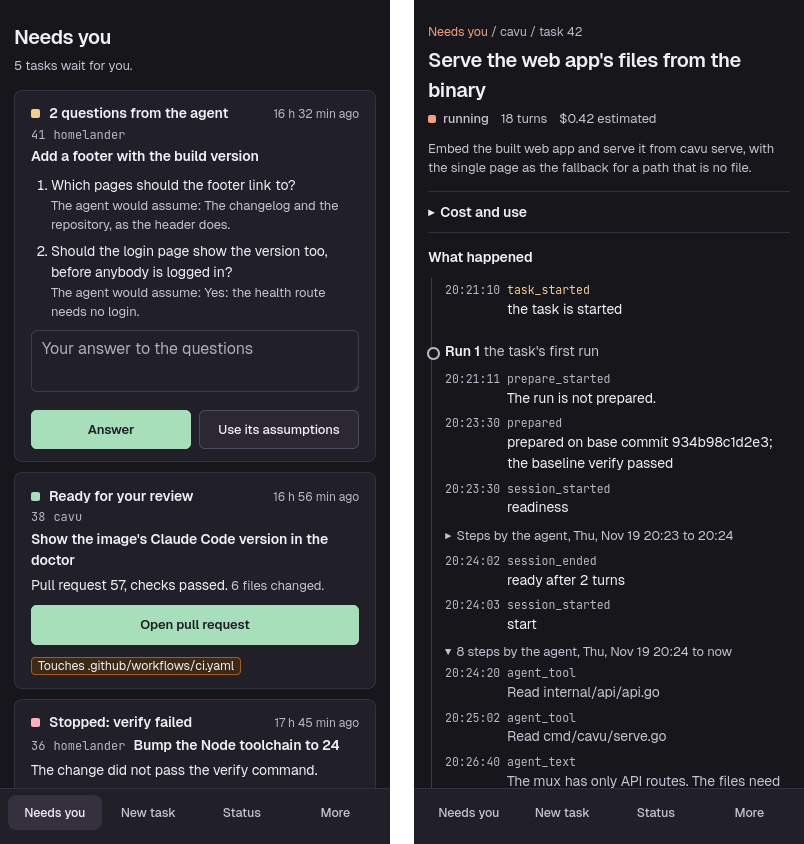
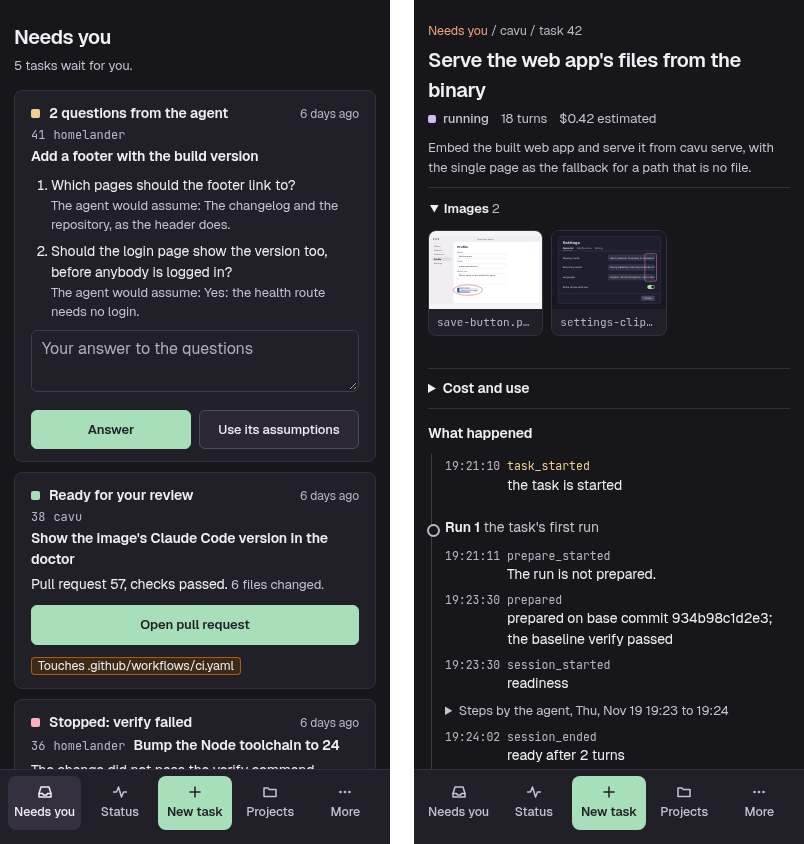
feat(web): add Projects to the phone navigation
- Place New task in the center and use the Capture button colors and icons.
- Keep Projects selected on project details and More selected in Settings.
- Update navigation tests and the light and dark phone previews.

diff --git a/web/src/App.test.tsx b/web/src/App.test.tsx
@@ -89,13 +89,13 @@ test('the navigation says when the stream is down', async () => {
   expect(mark).toHaveAttribute('data-live', 'false')
 })
 
-test('a narrow window shows the four tabs, a wide one the navigation', async () => {
-  const links = () => screen.getAllByRole('link').map((a) => a.getAttribute('href'))
+test('a narrow window shows the five tabs, a wide one the navigation', async () => {
+  const links = () => within(screen.getByRole('navigation')).getAllByRole('link').map((a) => a.getAttribute('href'))
   fakeServer((c) => (needsYou(c) ? json({ tasks: [] }) : undefined))
 
   narrow(true)
   const view = await show()
-  expect(links()).toEqual(['/', '/new', '/status', '/more'])
+  expect(links()).toEqual(['/', '/status', '/new', '/projects', '/more'])
   view.unmount()
 
   narrow(false)
@@ -103,16 +103,18 @@ test('a narrow window shows the four tabs, a wide one the navigation', async () 
   expect(links()).toEqual(['/', '/board', '/projects', '/settings'])
 })
 
-test('a page reached through More keeps the More tab current', async () => {
+test.each([
+  ['/projects', '/projects'],
+  ['/projects/cavu', '/projects'],
+  ['/settings', '/more'],
+  ['/status', '/status'],
+  ['/new', '/new'],
+])('the phone page %s marks %s as its current tab', async (path, tab) => {
   fakeServer((c) => (needsYou(c) ? json({ tasks: [] }) : undefined))
   narrow(true)
-  const current = () =>
-    screen.getAllByRole('link').filter((a) => a.classList.contains('on')).map((a) => a.getAttribute('href'))
-  const view = await show('/projects/cavu')
-  expect(current()).toEqual(['/more'])
-  view.unmount()
-  await show('/status')
-  expect(current()).toEqual(['/status'])
+  await show(path)
+  const nav = within(screen.getByRole('navigation', { name: 'Main' }))
+  expect(nav.getByRole('link', { current: 'page' })).toHaveAttribute('href', tab)
 })
 
 test('a path that is no screen goes to the first one', async () => {

diff --git a/web/src/components/PhoneTabs.tsx b/web/src/components/PhoneTabs.tsx
@@ -1,24 +1,30 @@
-import { NavLink, useLocation } from 'react-router'
+import { Link, useLocation } from 'react-router'
+import { AddIcon, InboxIcon, MoreIcon, ProjectsIcon, StatusIcon } from './icons.tsx'
 import './PhoneTabs.css'
 
-const tabs: [string, string][] = [
-  ['/', 'Needs you'],
-  ['/new', 'New task'],
-  ['/status', 'Status'],
-  ['/more', 'More'],
+const tabs = [
+  { to: '/', label: 'Needs you', icon: <InboxIcon /> },
+  { to: '/status', label: 'Status', icon: <StatusIcon /> },
+  { to: '/new', label: 'New task', icon: <AddIcon /> },
+  { to: '/projects', label: 'Projects', icon: <ProjectsIcon /> },
+  { to: '/more', label: 'More', icon: <MoreIcon /> },
 ]
 
-// Pages reached through More keep its tab current.
-const underMore = /^\/(settings|projects)(\/|$)/
-
 export default function PhoneTabs() {
-  const more = underMore.test(useLocation().pathname)
+  const section = useLocation().pathname.split('/')[1].toLowerCase()
+  const current = section === 'settings' ? '/more' : '/' + section
   return (
-    <nav className="tabbar">
-      {tabs.map(([to, label]) => (
-        <NavLink key={to} to={to} end className={({ isActive }) => (isActive || (more && to === '/more') ? 'on' : '')}>
-          {label}
-        </NavLink>
+    <nav className="tabbar" aria-label="Main">
+      {tabs.map(({ to, label, icon }) => (
+        <Link
+          key={to}
+          to={to}
+          aria-current={to === current ? 'page' : undefined}
+          className={to === '/new' ? 'new-task-tab' : undefined}
+        >
+          {icon}
+          <span>{label}</span>
+        </Link>
       ))}
     </nav>
   )

diff --git a/web/src/pages/More/More.tsx b/web/src/pages/More/More.tsx
@@ -1,7 +1,4 @@
-import { useEffect, useState } from 'react'
 import { Link } from 'react-router'
-import { api } from '../../api/client.ts'
-import type { Project } from '../../api/types.ts'
 import PageHead from '../../components/PageHead.tsx'
 import { useSignOut } from '../../components/useSignOut.ts'
 import { useVersion } from '../../components/useVersion.ts'
@@ -10,21 +7,11 @@ import './More.css'
 export default function More() {
   const signOut = useSignOut()
   const version = useVersion()
-  const [projects, setProjects] = useState<number | null>(null)
-  useEffect(() => {
-    api<{ projects: Project[] }>('GET', '/projects')
-      .then((r) => setProjects(r.projects.length))
-      .catch(() => {})
-  }, [])
 
   return (
     <div className="page">
       <PageHead title="More" />
       <div className="more-list">
-        <Link className="more-item" to="/projects">
-          <span className="t1">Projects</span>
-          {projects !== null && <span className="t2">{projects} {projects === 1 ? 'project' : 'projects'}</span>}
-        </Link>
         <Link className="more-item" to="/settings">
           <span className="t1">Settings</span>
           <span className="t2">The model endpoint, models, limits, GitHub</span>

diff --git a/web/src/components/PhoneTabs.css b/web/src/components/PhoneTabs.css
@@ -1,14 +1,20 @@
 .tabbar {
+  flex: none;
   display: grid;
-  grid-template-columns: repeat(4, 1fr);
+  grid-auto-flow: column;
+  grid-auto-columns: 1fr;
+  gap: 2px;
   background: var(--bg0);
   border-top: 1px solid var(--bg2);
-  padding: 6px 8px 14px;
+  padding: 6px 8px max(14px, env(safe-area-inset-bottom));
 }
 
 .tabbar a {
-  text-align: center;
-  padding: 8px 4px;
+  display: flex;
+  flex-direction: column;
+  align-items: center;
+  gap: 3px;
+  padding: 8px 0;
   border-radius: 8px;
   color: var(--grey2);
   font-size: 12.5px;
@@ -19,7 +25,13 @@
   text-decoration: none;
 }
 
-.tabbar a.on {
+.tabbar a[aria-current] {
   color: var(--fg);
   background: var(--bg2);
+}
+
+.tabbar a.new-task-tab {
+  background: var(--green);
+  color: var(--bg0);
+  font-weight: 600;
 }

diff --git a/web/src/pages/More/More.test.tsx b/web/src/pages/More/More.test.tsx
@@ -5,12 +5,8 @@ import More from './More.tsx'
 
 afterEach(() => vi.unstubAllGlobals())
 
-test.each([
-  [1, '1 project'],
-  [3, '3 projects'],
-])('More shows %i projects as %s', async (n, shown) => {
+test('More links to settings and leaves projects to the tab bar', async () => {
   fakeServer((c) => {
-    if (c.path === '/api/projects') return json({ projects: Array.from({ length: n }, (_, i) => ({ id: i + 1 })) })
     if (c.path === '/api/health') return json({ status: 'ok', version: '1.2.3' })
   })
   render(
@@ -19,5 +15,5 @@ test.each([
     </MemoryRouter>,
   )
   await act(async () => {})
-  expect(await screen.findByText(shown)).toBeInTheDocument()
+  expect(screen.getAllByRole('link').map((a) => a.getAttribute('href'))).toEqual(['/settings'])
 })

diff --git a/web/src/components/icons.tsx b/web/src/components/icons.tsx
@@ -33,3 +33,36 @@ export const XIcon = () => (
     <path d="m4.5 4.5 7 7M11.5 4.5l-7 7" />
   </Icon>
 )
+
+export const InboxIcon = () => (
+  <Icon>
+    <path d="M2 9.5 4 3h8l2 6.5V13H2z" />
+    <path d="M2 9.5h3.5l1 1.5h3l1-1.5H14" />
+  </Icon>
+)
+
+export const StatusIcon = () => (
+  <Icon>
+    <path d="M1.5 8h3l2-5 3 10 2-5h3" />
+  </Icon>
+)
+
+export const AddIcon = () => (
+  <Icon>
+    <path d="M8 3v10M3 8h10" />
+  </Icon>
+)
+
+export const ProjectsIcon = () => (
+  <Icon>
+    <path d="M2 4h4l1.3 1.6H14V12.5H2z" />
+  </Icon>
+)
+
+export const MoreIcon = () => (
+  <Icon>
+    <circle cx="3.5" cy="8" r=".6" />
+    <circle cx="8" cy="8" r=".6" />
+    <circle cx="12.5" cy="8" r=".6" />
+  </Icon>
+)

diff --git a/web/src/pages/Projects/Projects.test.tsx b/web/src/pages/Projects/Projects.test.tsx
@@ -264,7 +264,7 @@ test('on a phone the list is flat and a project folds its sections', async () =>
   fireEvent.click(links[1])
   await settle()
   expect(here).toBe('/projects/docs')
-  expect(screen.getByRole('link', { name: 'Projects' })).toHaveAttribute('href', '/projects')
+  expect(within(screen.getByRole('main')).getByRole('link', { name: 'Projects' })).toHaveAttribute('href', '/projects')
   expect(screen.getByRole('heading', { level: 1, name: 'docs' })).toBeInTheDocument()
   expect(screen.queryByRole('navigation', { name: 'Projects' })).toBeNull()
   expect(check()).toHaveClass('k-stop')

diff --git a/web/src/components/useNarrow.ts b/web/src/components/useNarrow.ts
@@ -8,7 +8,6 @@ function subscribe(onChange: () => void) {
   return () => mql.removeEventListener('change', onChange)
 }
 
-// True on a phone: the frame then has four tabs and no navigation along the top.
 export function useNarrow(): boolean {
   return useSyncExternalStore(subscribe, () => window.matchMedia(query).matches)
 }

diff --git a/docs/running.md b/docs/running.md
@@ -9,7 +9,7 @@ cavu serve
 
 It prints the address it listens on. On the page, sign in as that user; a CAVU with no project opens at its setup ([Getting started](../README.md#getting-started)). A client of the API logs in with `POST /api/auth/login`, or sends an API token from `cavu token add NAME`. An MCP client gets the tools that create, show, list, edit, run, answer and cancel tasks and list the projects at `http://HOST:PORT/mcp` over the streamable HTTP transport, with the header `Authorization: Bearer TOKEN` and a token from `cavu token add NAME`. While it runs, `task run`, `project check` and `replay` leave the driving to it, and `doctor` is refused. Ctrl-C stops it, and the next `cavu serve` carries on with the tasks it was running.
 
-The web app fits a phone: at 720 pixels wide or less it shows four tabs at the bottom, **Needs you**, **New task**, **Status** and **More**, in place of the navigation along the top, and it carries a web manifest and icons for a phone's home screen. By default CAVU listens on `127.0.0.1`, which only the computer it runs on reaches. For a phone on your network, set `listen_address` to a host and a port of that computer, such as `0.0.0.0:7117` for every address it has, start `cavu serve` again, and open `http://ADDRESS:7117/` on the phone with the computer's address on your network:
+At 720 pixels wide or less, the web app shows **Needs you**, **Status**, **New task**, **Projects** and **More** along the bottom. It includes a web manifest and icons for a phone's home screen. By default CAVU listens on `127.0.0.1`, which only the computer it runs on reaches. For a phone on your network, set `listen_address` to a host and a port of that computer, such as `0.0.0.0:7117` for every address it has, start `cavu serve` again, and open `http://ADDRESS:7117/` on the phone with the computer's address on your network:
 
 ```
 cavu settings set listen_address 0.0.0.0:7117

diff --git a/README.md b/README.md
@@ -144,11 +144,11 @@ Each step says what to do and what you then see. Type the commands in a terminal
       <img src="docs/images/board-light.png" width="720" alt="The Board lists tasks under collapsible status headings, with search and project filters above the list. Each row shows the task number, title, project and any wait or action needed.">
     </picture>
 
-The same app works on a phone, with four tabs at the bottom; [Running the server](docs/running.md) says how a phone reaches CAVU.
+On a phone, use the bottom bar to open **Needs you**, **Status**, **New task**, **Projects** or **More**. See [Running the server](docs/running.md) to connect your phone to CAVU.
 
 <picture>
   <source media="(prefers-color-scheme: dark)" srcset="docs/images/phone-needs-you-and-task-page-dark.png">
-  <img src="docs/images/phone-needs-you-and-task-page-light.png" width="402" alt="CAVU on a phone, two screens side by side: Needs you, with a task's two questions from the agent and a pull request ready for review, and a running task's page with its timeline; each has the tabs Needs you, New task, Status and More at the bottom.">
+  <img src="docs/images/phone-needs-you-and-task-page-light.png" width="402" alt="Two CAVU phone screens show tasks that need your attention and a running task's timeline. Both have a green New task button in the middle of the bottom bar.">
 </picture>
 
 ### With the command line
